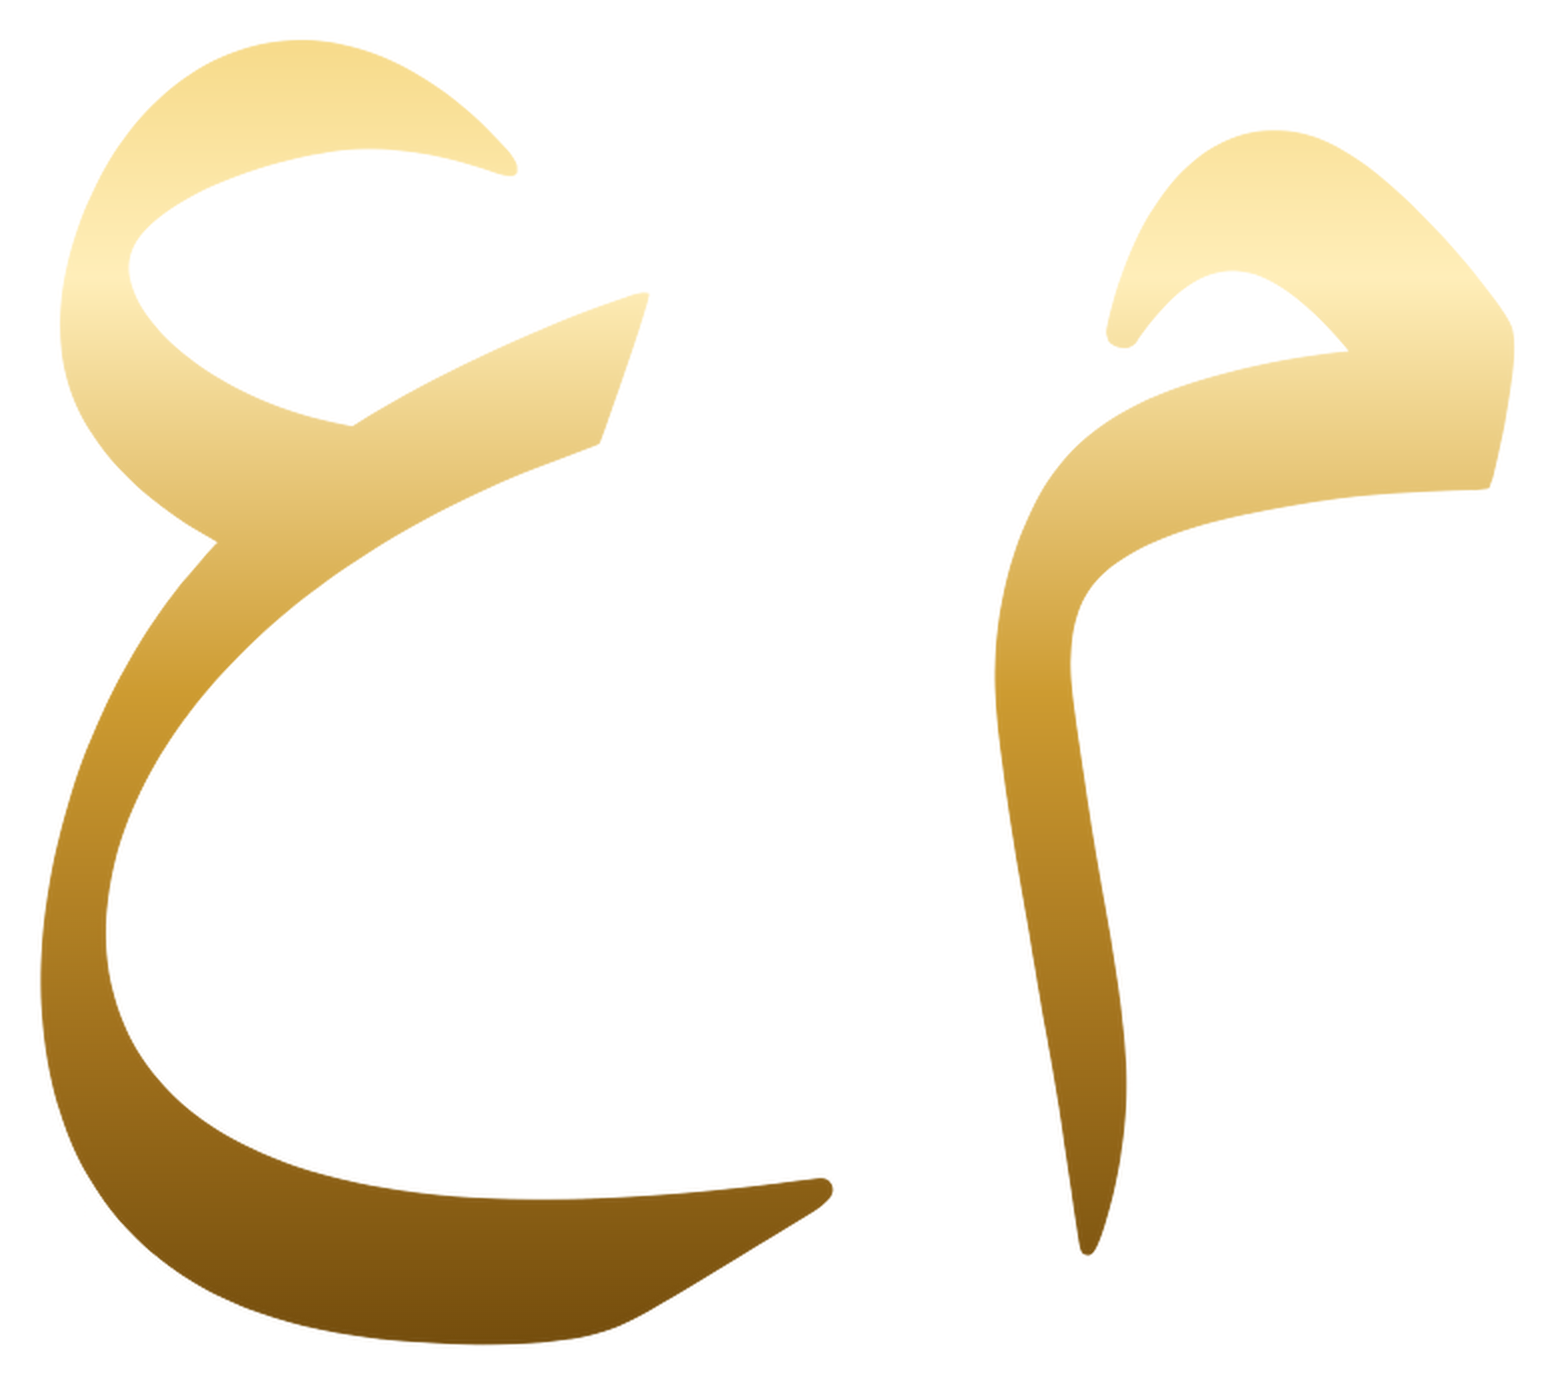
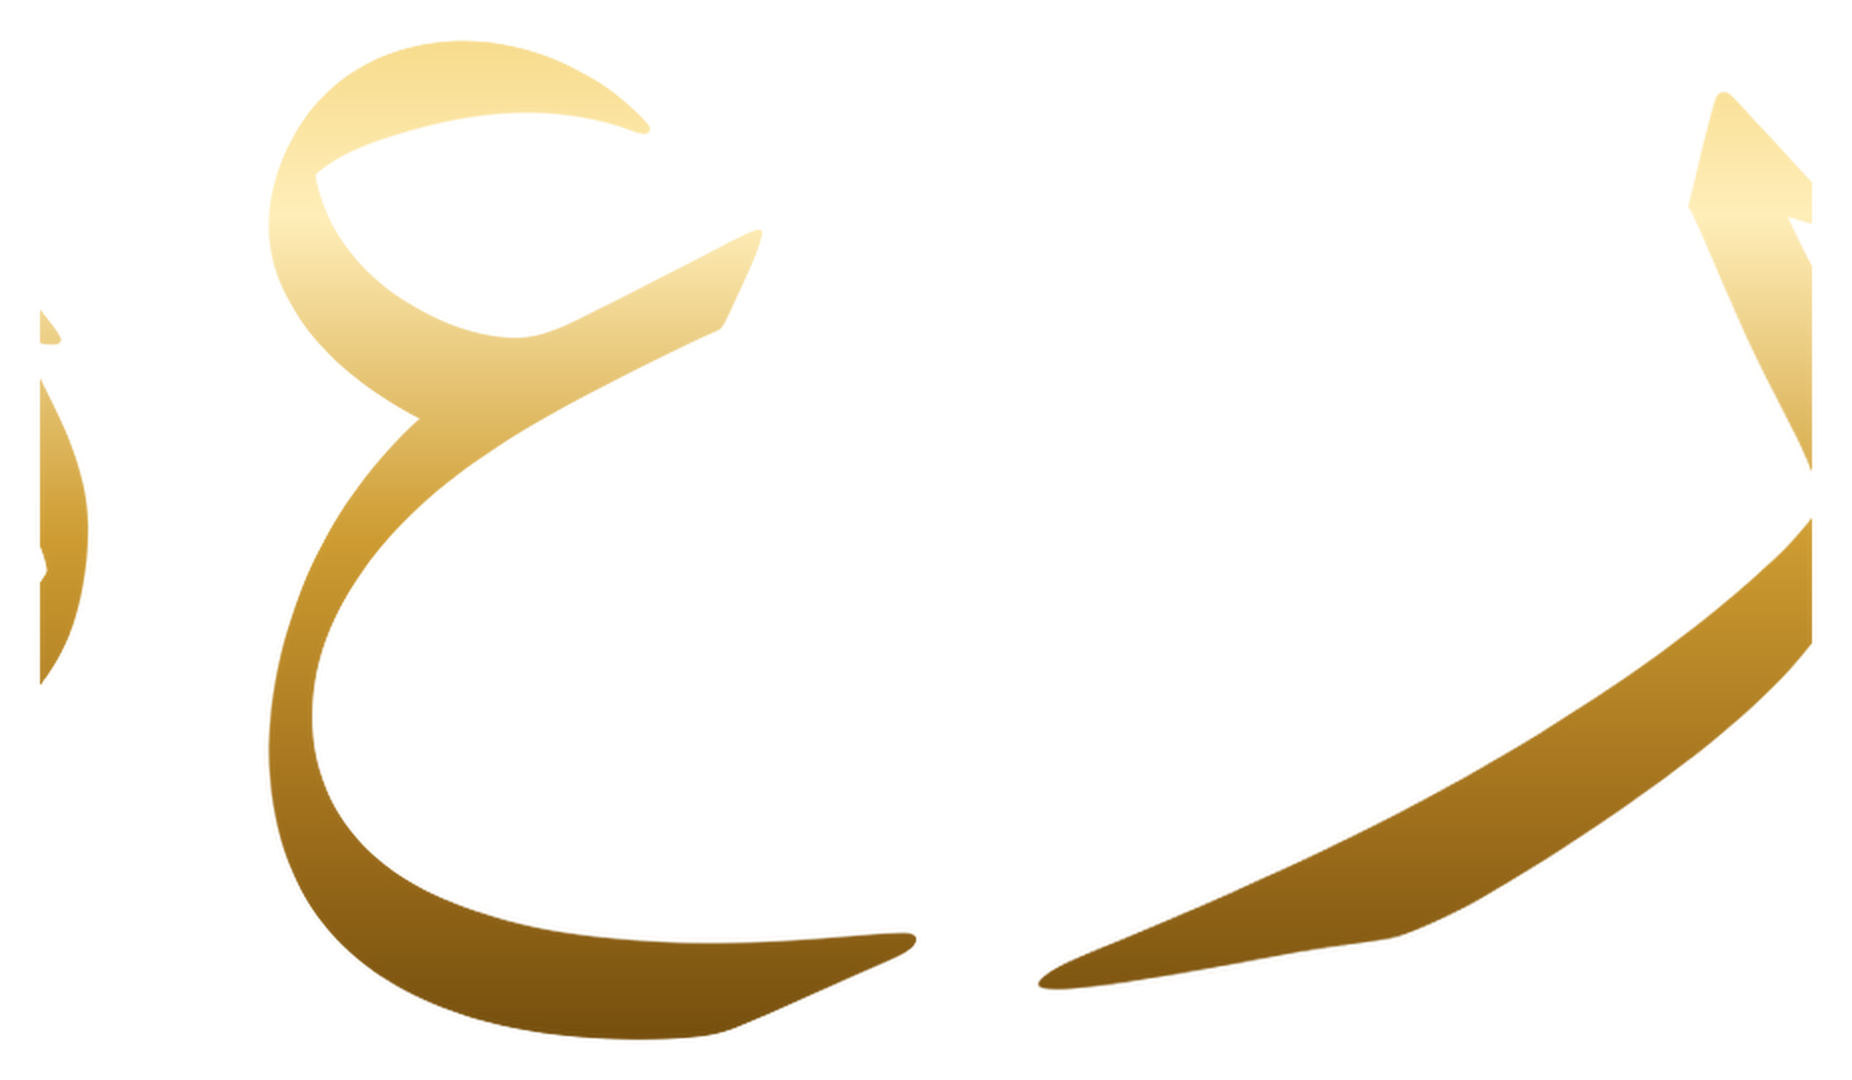
feat: update bride name to Rahma (رحمة وعمر) across entire site and update monogram to R and O

Changed region(s): [[0.0, 0.0306, 0.5553, 0.9778], [0.5553, 0.0917, 0.9871, 0.9167], [0.3702, 0.3056, 0.401, 0.3361]]

diff --git a/src/data/translations.ts b/src/data/translations.ts
@@ -145,7 +145,7 @@ export const TRANSLATIONS: Record<Language, TranslationData> = {
   // 1. Egyptian Arabic (اللهجة المصرية الدافئة والأصيلة)
   ar: {
     couple: {
-      bride: 'مروة',
+      bride: 'رحمة',
       groom: 'عمر',
       parentsTitle: 'برضا الوالدين ودعوات الحبايب والأهل',
     },
@@ -217,7 +217,7 @@ export const TRANSLATIONS: Record<Language, TranslationData> = {
     rsvp: {
       tag: 'كلمة حلوة ودعوة من القلب',
       title: 'دفتر التهاني والمباركات',
-      subtitle: 'سيبوا كلمة طيبة أو دعوة تفرح قلب مروة وعمر في بداية مشوارهم.',
+      subtitle: 'سيبوا كلمة طيبة أو دعوة تفرح قلب رحمة وعمر في بداية مشوارهم.',
       nameLabel: 'اسمك الكريم *',
       namePlaceholder: 'اكتب اسمك هنا عشان نعرف مين منورنا...',
       attendingLabel: 'هتنورونا إن شاء الله؟',
@@ -231,7 +231,7 @@ export const TRANSLATIONS: Record<Language, TranslationData> = {
         { value: 4, label: '4 أشخاص أو أكثر (عيلة)' },
       ],
       messageLabel: 'دعوة حلوة أو كلمة للعروسين *',
-      messagePlaceholder: 'اكتب دعوة مباركة أو كلمة من قلبك لمروة وعمر...',
+      messagePlaceholder: 'اكتب دعوة مباركة أو كلمة من قلبك لرحمة وعمر...',
       submitButton: 'سجل تهنئتك في دفتر الفرح',
       submitting: 'جارٍ التسجيل...',
       whatsappButton: 'ابعت التهنئة على واتساب للعروسين علطول',
@@ -248,7 +248,7 @@ export const TRANSLATIONS: Record<Language, TranslationData> = {
         },
         {
           name: 'سارة إبراهيم',
-          message: 'ما شاء الله تبارك الله، قمرين ونورتم دنيانا. ألف مبروك يا مروة وعقبال كل الأيام الحلوة يا رب.',
+          message: 'ما شاء الله تبارك الله، قمرين ونورتم دنيانا. ألف مبروك يا رحمة وعقبال كل الأيام الحلوة يا رب.',
           time: 'منذ قليل',
         },
       ],
@@ -256,7 +256,7 @@ export const TRANSLATIONS: Record<Language, TranslationData> = {
     story: {
       tag: 'حكايتنا خطوة بخطوة',
       title: 'قصتنا',
-      badge: 'مروة & عمر',
+      badge: 'رحمة & عمر',
       chapters: [
         {
           number: '٠١',
@@ -289,7 +289,7 @@ export const TRANSLATIONS: Record<Language, TranslationData> = {
       moments: [
         {
           id: 'moment-1',
-          title: 'مروة وعمر',
+          title: 'رحمة وعمر',
           caption: 'قلبين اتجمعوا على الخير والمودة والوفاء.',
           image: ASSETS.gallery[0],
         },
@@ -332,7 +332,7 @@ export const TRANSLATIONS: Record<Language, TranslationData> = {
       familyBlessing: 'برضا الوالدين ودعوات الأهل والأحباب',
       dateBadge: '١ · ١ · ٢٠٢٧',
       gratitude: 'بكل الحب والتقدير والامتنان',
-      weddingOf: 'حفل زفاف مروة وعمر • قاعة رويال، الإسماعيلية',
+      weddingOf: 'حفل زفاف رحمة وعمر • قاعة رويال، الإسماعيلية',
       rights: 'جميع الحقوق محفوظة © ٢٠٢٧',
     },
     controls: {
@@ -348,7 +348,7 @@ export const TRANSLATIONS: Record<Language, TranslationData> = {
   // 2. English (International & Elegant)
   en: {
     couple: {
-      bride: 'Marwa',
+      bride: 'Rahma',
       groom: 'Omer',
       parentsTitle: 'Together with their families',
     },
@@ -421,7 +421,7 @@ export const TRANSLATIONS: Record<Language, TranslationData> = {
     rsvp: {
       tag: 'Wishes & Prayers',
       title: 'Wedding Guestbook',
-      subtitle: 'Leave a heartfelt prayer or sweet blessing for Marwa & Omer.',
+      subtitle: 'Leave a heartfelt prayer or sweet blessing for Rahma & Omer.',
       nameLabel: 'Your Name *',
       namePlaceholder: 'Please enter your full name...',
       attendingLabel: 'Will you attend?',
@@ -452,7 +452,7 @@ export const TRANSLATIONS: Record<Language, TranslationData> = {
         },
         {
           name: 'Sara Ibrahim',
-          message: 'Mabrouk Marwa & Omer! Wishing you a lifetime of love, laughter, and beautiful blessings.',
+          message: 'Mabrouk Rahma & Omer! Wishing you a lifetime of love, laughter, and beautiful blessings.',
           time: 'Just now',
         },
       ],
@@ -460,7 +460,7 @@ export const TRANSLATIONS: Record<Language, TranslationData> = {
     story: {
       tag: 'Our Journey',
       title: 'Our Story',
-      badge: 'Marwa & Omer',
+      badge: 'Rahma & Omer',
       chapters: [
         {
           number: '01',
@@ -493,7 +493,7 @@ export const TRANSLATIONS: Record<Language, TranslationData> = {
       moments: [
         {
           id: 'moment-1',
-          title: 'Marwa & Omer',
+          title: 'Rahma & Omer',
           caption: 'Two souls united in faith, devotion, and love.',
           image: ASSETS.gallery[0],
         },
@@ -536,7 +536,7 @@ export const TRANSLATIONS: Record<Language, TranslationData> = {
       familyBlessing: 'With the Blessings of Their Families',
       dateBadge: '1 · 1 · 2027',
       gratitude: 'With Love & Gratitude',
-      weddingOf: 'Wedding of Marwa & Omer • Royal Hall, Ismailia',
+      weddingOf: 'Wedding of Rahma & Omer • Royal Hall, Ismailia',
       rights: 'All Rights Reserved © 2027',
     },
     controls: {

diff --git a/src/app/dashboard/page.tsx b/src/app/dashboard/page.tsx
@@ -213,7 +213,7 @@ export default function DashboardPage() {
     const url = URL.createObjectURL(blob);
     const link = document.createElement('a');
     link.href = url;
-    link.setAttribute('download', `تهاني_فرح_مروة_وعمر_${new Date().toISOString().slice(0, 10)}.csv`);
+    link.setAttribute('download', `تهاني_فرح_رحمة_وعمر_${new Date().toISOString().slice(0, 10)}.csv`);
     document.body.appendChild(link);
     link.click();
     document.body.removeChild(link);
@@ -235,7 +235,7 @@ export default function DashboardPage() {
             منطقة العروسين الخاصة
           </span>
           <h1 className="text-2xl font-bold font-serif text-taupe-dark">
-            لوحة تحكم مروة وعمر
+            لوحة تحكم رحمة وعمر
           </h1>
           <p className="text-xs text-taupe-dark/80 mt-1 mb-6">
             أدخل رمز المرور لعرض دفتر التهاني وتأكيدات الحضور
@@ -302,7 +302,7 @@ export default function DashboardPage() {
             <div>
               <div className="flex items-center gap-1.5">
                 <h1 className="text-base sm:text-lg font-bold font-serif text-taupe-dark leading-tight">
-                  فرح مروة وعمر
+                  فرح رحمة وعمر
                 </h1>
                 <span className="inline-flex items-center px-1.5 py-0.5 rounded-full text-[10px] font-bold bg-emerald-100 text-emerald-800 border border-emerald-300">
                   <span className="w-1.5 h-1.5 rounded-full bg-emerald-500 ml-1 animate-pulse"></span>
@@ -720,7 +720,7 @@ export default function DashboardPage() {
 
         {/* Footer info */}
         <footer className="pt-3 border-t border-gold/20 mt-3 text-center text-[11px] text-taupe/60 flex items-center justify-between">
-          <span>فرح مروة وعمر • ١ يناير ٢٠٢٧</span>
+          <span>فرح رحمة وعمر • ١ يناير ٢٠٢٧</span>
           <span>رمز الدخول الافتراضي: 2027</span>
         </footer>
       </div>

diff --git a/src/app/layout.tsx b/src/app/layout.tsx
@@ -11,8 +11,8 @@ export const viewport: Viewport = {
 
 export const metadata: Metadata = {
   metadataBase: new URL('https://marwa-omer-six.vercel.app'),
-  title: 'دعوة زفاف مروة وعمر | 1 يناير 2027',
-  description: 'يسرنا ويشرفنا دعوتكم لحضور حفل زفاف مروة وعمر. الجمعة 1 يناير 2027 في الإسماعيلية، مصر.',
+  title: 'دعوة زفاف رحمة وعمر | 1 يناير 2027',
+  description: 'يسرنا ويشرفنا دعوتكم لحضور حفل زفاف رحمة وعمر. الجمعة 1 يناير 2027 في الإسماعيلية، مصر.',
   icons: {
     icon: '/favicon.svg',
     apple: '/favicon.svg',
@@ -20,14 +20,14 @@ export const metadata: Metadata = {
   openGraph: {
     type: 'website',
     locale: 'ar_EG',
-    title: 'دعوة زفاف مروة وعمر | 1 يناير 2027',
-    description: 'يسرنا ويشرفنا دعوتكم لحضور حفل زفاف مروة وعمر. الجمعة 1 يناير 2027 في الإسماعيلية، مصر.',
+    title: 'دعوة زفاف رحمة وعمر | 1 يناير 2027',
+    description: 'يسرنا ويشرفنا دعوتكم لحضور حفل زفاف رحمة وعمر. الجمعة 1 يناير 2027 في الإسماعيلية، مصر.',
     images: ['/og-image.png'],
   },
   twitter: {
     card: 'summary_large_image',
-    title: 'دعوة زفاف مروة وعمر | 1 يناير 2027',
-    description: 'يسرنا ويشرفنا دعوتكم لحضور حفل زفاف مروة وعمر. الجمعة 1 يناير 2027 في الإسماعيلية، مصر.',
+    title: 'دعوة زفاف رحمة وعمر | 1 يناير 2027',
+    description: 'يسرنا ويشرفنا دعوتكم لحضور حفل زفاف رحمة وعمر. الجمعة 1 يناير 2027 في الإسماعيلية، مصر.',
     images: ['/og-image.png'],
   },
 };

diff --git a/src/data/invitation.ts b/src/data/invitation.ts
@@ -29,13 +29,13 @@ export interface PhotoMoment {
 }
 
 export const INVITATION_DATA = {
-  // Couple Information: Marwa & Omer
+  // Couple Information: Rahma & Omer
   couple: {
     bride: {
-      name: 'Marwa',
-      firstName: 'مروة',
-      fullName: 'مروة',
-      arabicName: 'مروة',
+      name: 'Rahma',
+      firstName: 'رحمة',
+      fullName: 'رحمة',
+      arabicName: 'رحمة',
       parentsTitle: 'كريمة الأستاذ / يوسف خان',
     },
     groom: {
@@ -127,7 +127,7 @@ export const INVITATION_DATA = {
   moments: [
     {
       id: 'moment-1',
-      title: 'مروة وعمر',
+      title: 'رحمة وعمر',
       caption: 'قلبان جمعهما الإيمان والمودة والوفاء.',
       image: ASSETS.gallery[0],
     },
@@ -173,6 +173,6 @@ export const INVITATION_DATA = {
   // Footer & Credits
   footer: {
     blessing: 'بارك الله لهما وبارك عليهما وجمع بينهما في خير',
-    credit: 'صُممت بكل حب لزفاف مروة & عمر',
+    credit: 'صُممت بكل حب لزفاف رحمة & عمر',
   },
 } as const;

diff --git a/src/components/sections/SectionHero.tsx b/src/components/sections/SectionHero.tsx
@@ -439,7 +439,7 @@ export const SectionHero: React.FC<SectionHeroProps> = ({ isRevealed = false }) 
                   aria-hidden="true"
                 />
                 <img
-                  src={ASSETS.coupleMonogramGold || '/couple-monogram-gold.png?v=3'}
+                  src={ASSETS.coupleMonogramGold || '/couple-monogram-gold.png?v=4'}
                   alt={`${t.couple.bride} & ${t.couple.groom}`}
                   className="relative h-28 sm:h-36 md:h-44 w-auto object-contain filter drop-shadow-[0_4px_18px_rgba(212,175,55,0.45)] drop-shadow-[0_2px_8px_rgba(78,62,55,0.35)] transition-transform duration-500 hover:scale-105"
                   draggable={false}

diff --git a/src/app/api/rsvp/route.ts b/src/app/api/rsvp/route.ts
@@ -29,7 +29,7 @@ let memoryCache: RsvpItem[] = [
     name: 'سارة إبراهيم',
     attending: 'yes',
     guests: 1,
-    message: 'ما شاء الله تبارك الله، قمرين ونورتم دنيانا. ألف مبروك يا مروة وعقبال كل الأيام الحلوة يا رب.',
+    message: 'ما شاء الله تبارك الله، قمرين ونورتم دنيانا. ألف مبروك يا رحمة وعقبال كل الأيام الحلوة يا رب.',
     submittedAt: '2026-11-24T19:00:00.000Z',
   },
 ];

diff --git a/src/config/assets.ts b/src/config/assets.ts
@@ -30,8 +30,8 @@ export const ASSETS = {
   waxSeal: '/assets/wax-seal.webp',
   waxSealSvg: '/assets/wax-seal.svg',
   paperTexture: '/assets/paper-texture.webp',
-  coupleMonogramGold: '/assets/couple-monogram-gold.png?v=3',
-  coupleMonogramWhite: '/assets/couple-monogram-white.png?v=3',
+  coupleMonogramGold: '/assets/couple-monogram-gold.png?v=4',
+  coupleMonogramWhite: '/assets/couple-monogram-white.png?v=4',
   coupleMonogramSvg: '/assets/couple-monogram.svg',
 } as const;
 

diff --git a/src/components/sections/SectionClosing.tsx b/src/components/sections/SectionClosing.tsx
@@ -59,7 +59,7 @@ export const SectionClosing: React.FC = () => {
           </p>
         </Reveal>
 
-        {/* Couple Signature: Marwa & Omer */}
+        {/* Couple Signature: Rahma & Omer */}
         <Reveal delay={0.4} className="mb-2">
           <h1 className="font-script text-5xl sm:text-6xl text-gold-gradient py-0.5 drop-shadow-xs">
             {t.couple.bride} &amp; {t.couple.groom}
